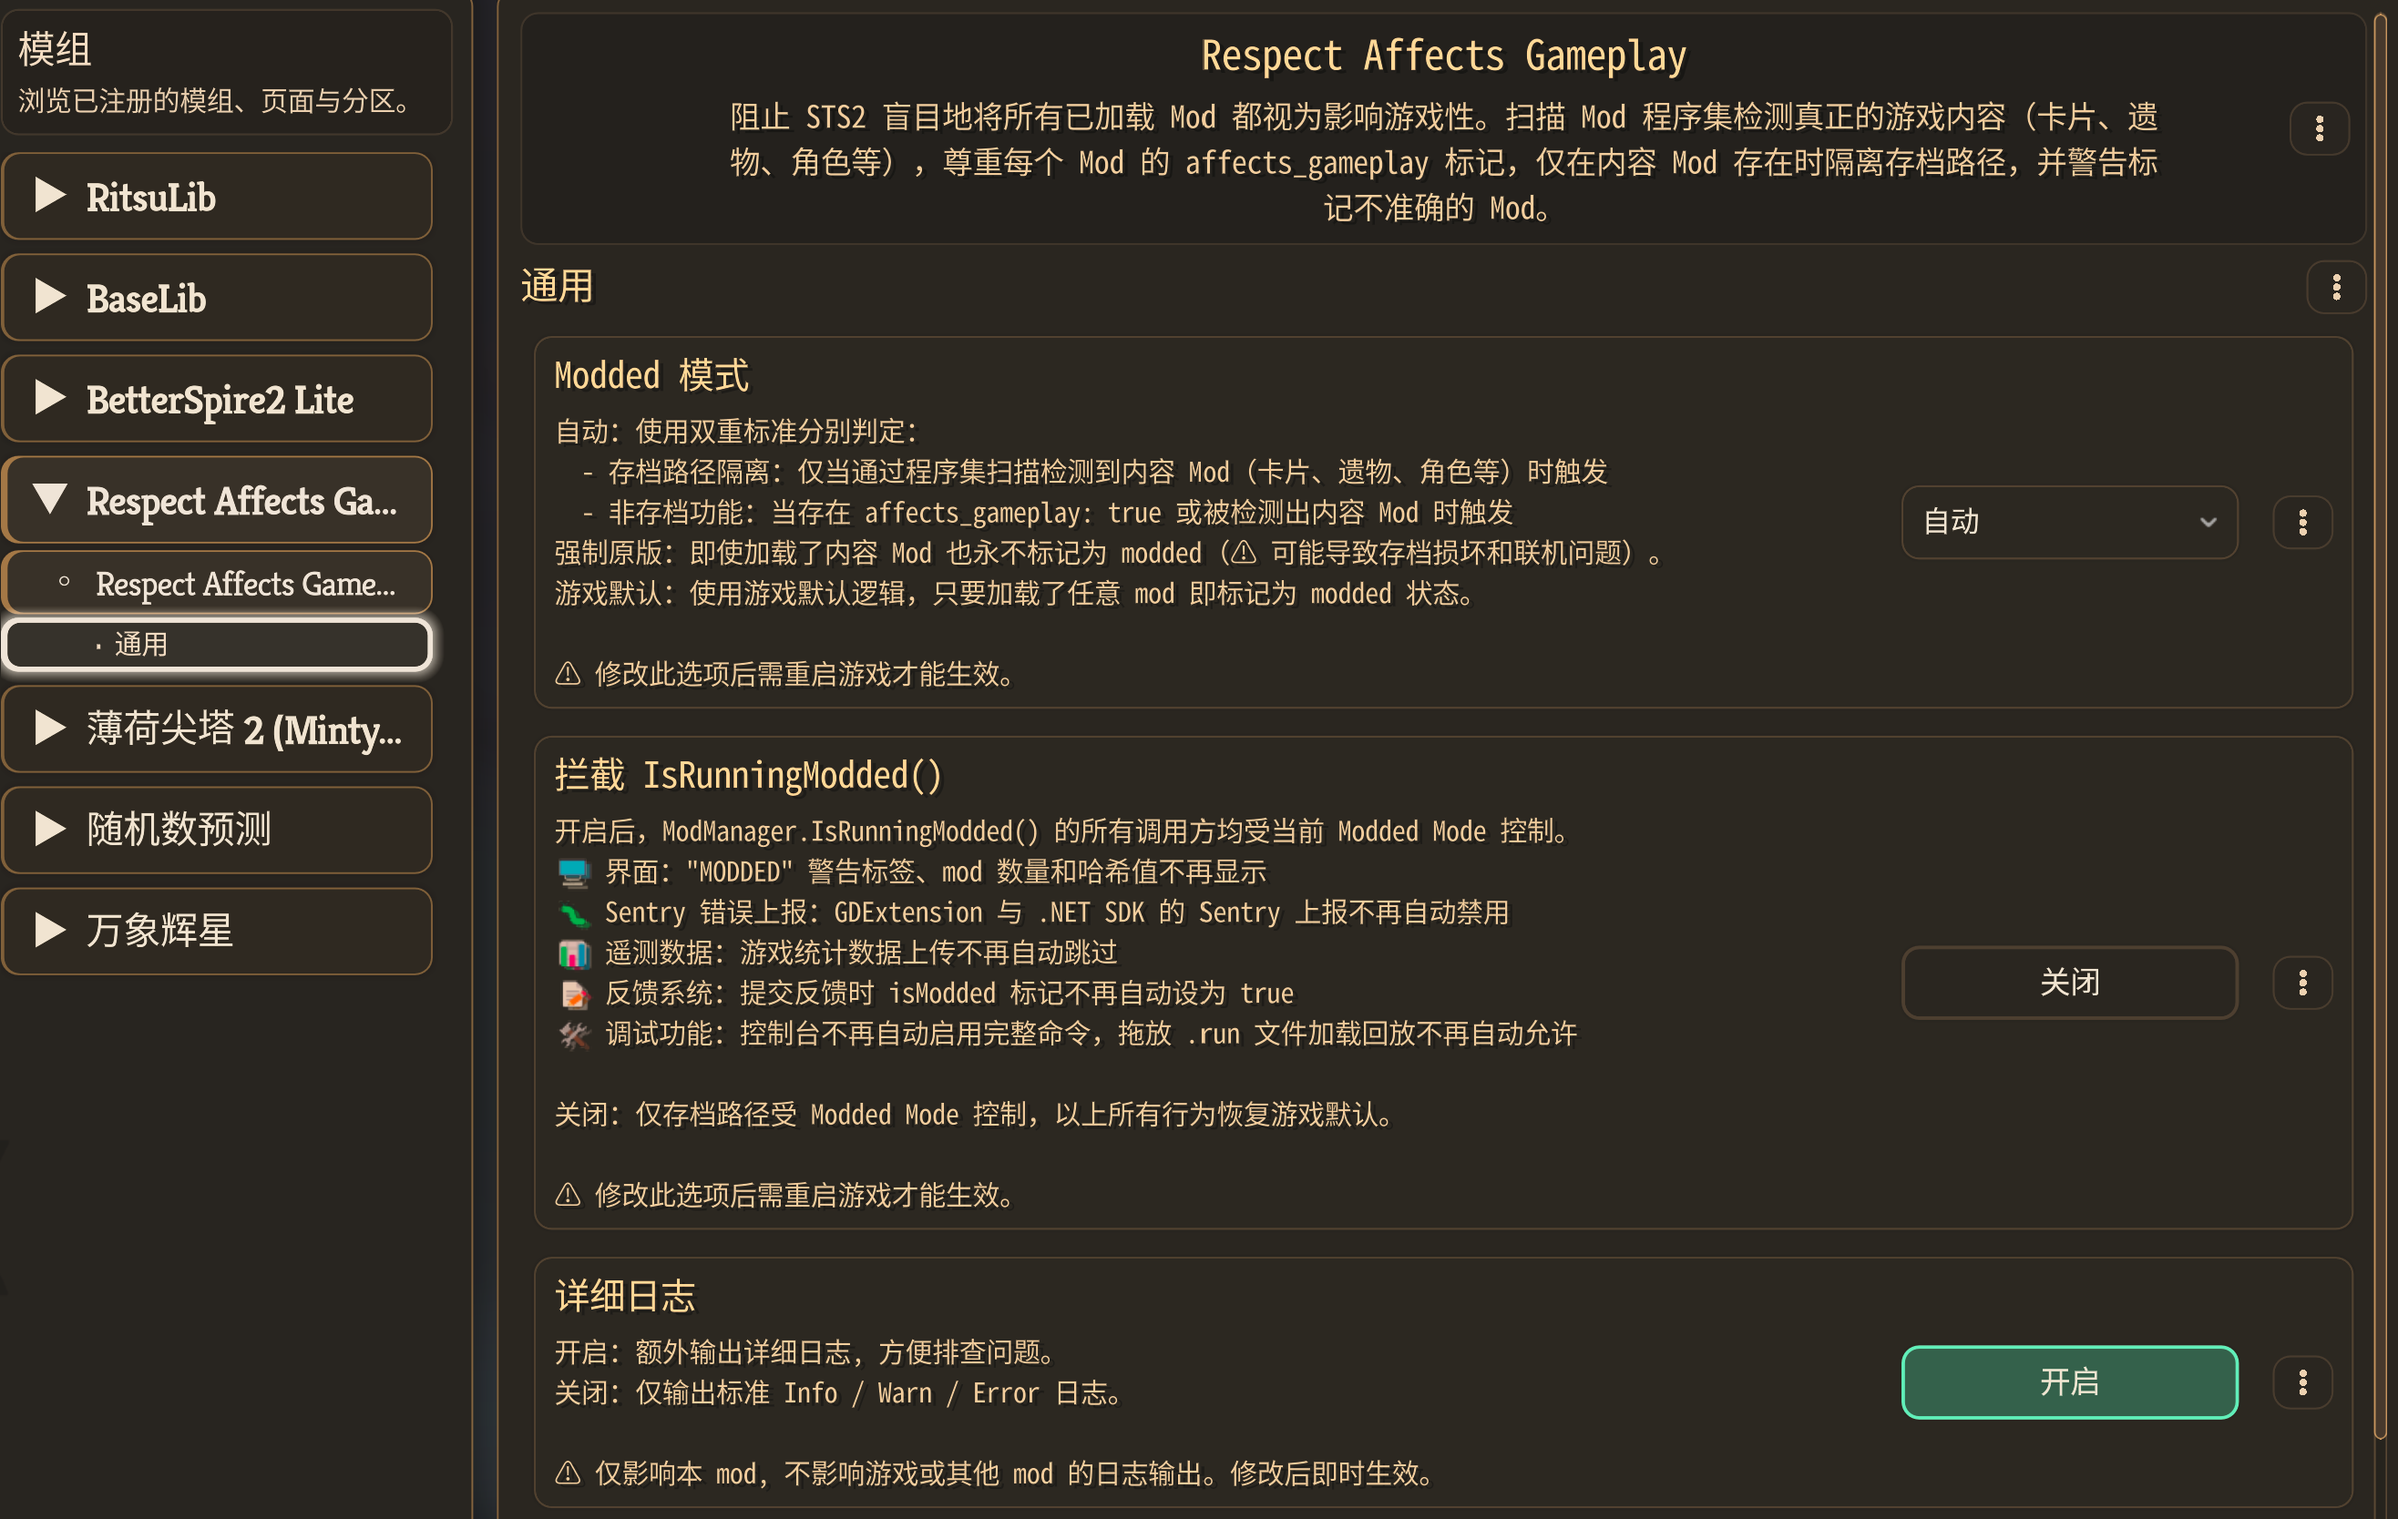
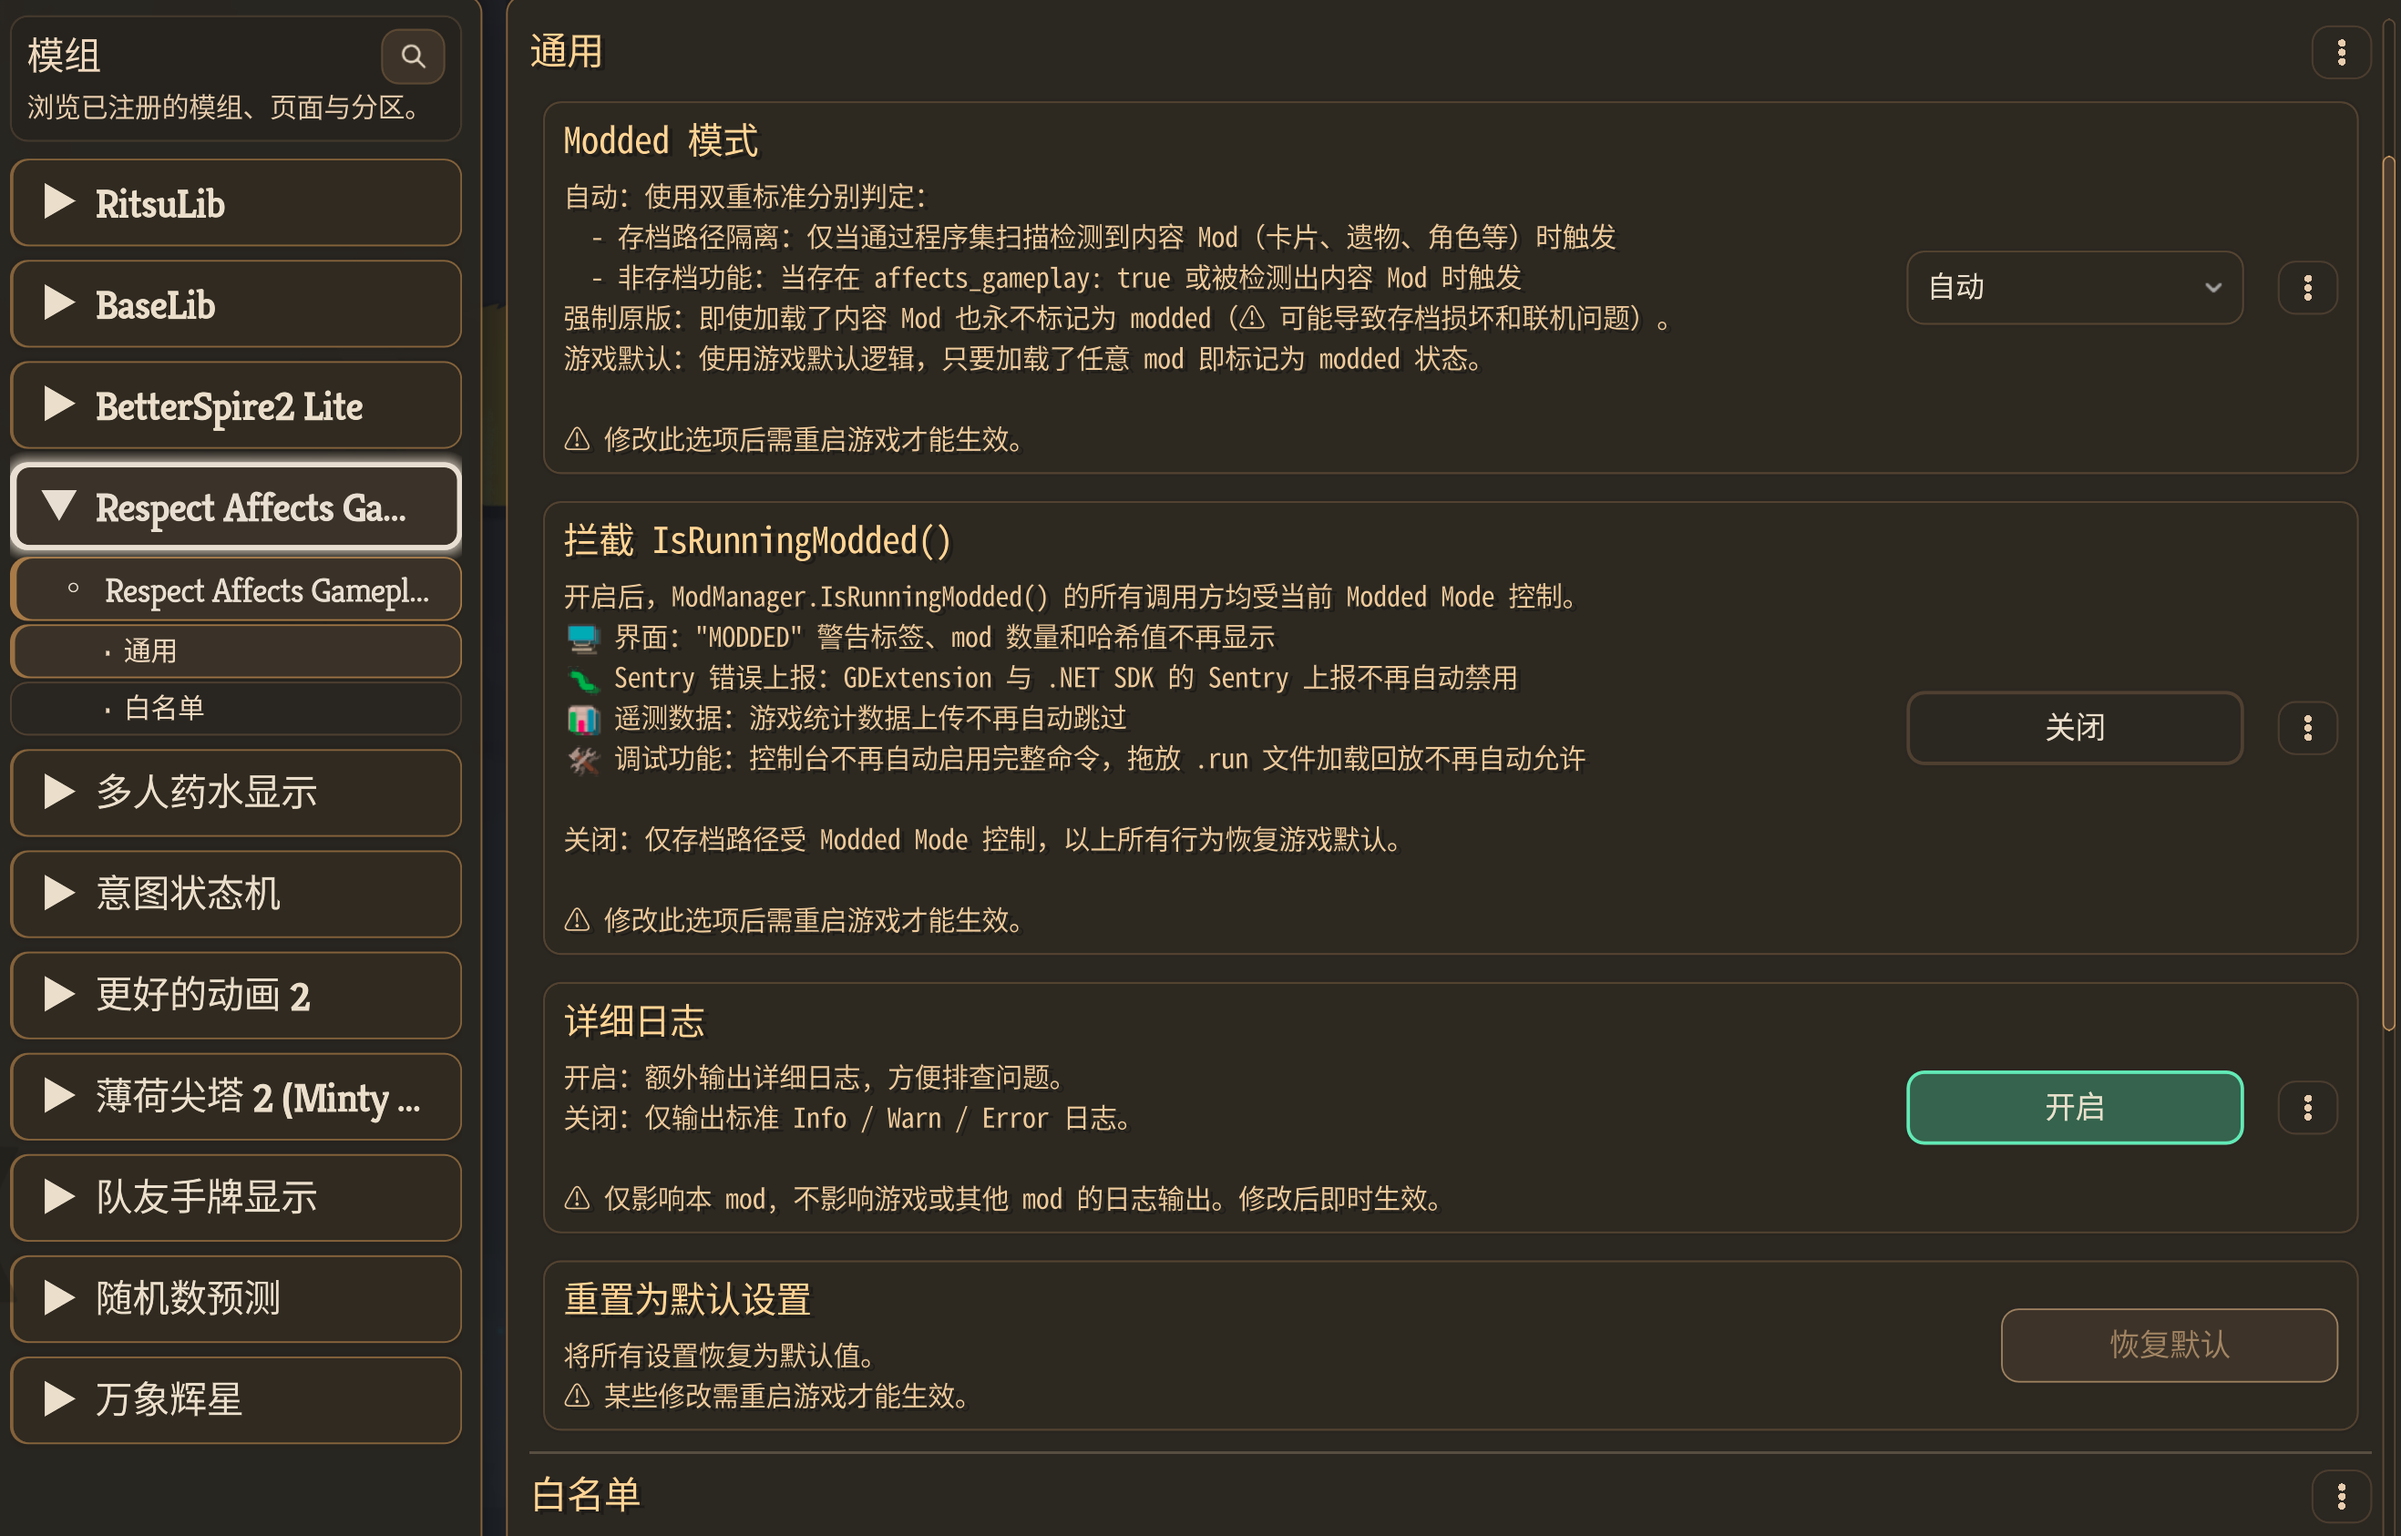
chore(release): v0.3.2
- CHANGELOG: [Unreleased] 归档为 [0.3.2] 并新增 Note 玩家摘要, 更新版本链接
- RespectAffectsGameplay.json: 版本号从 0.3.1 提升至 0.3.2
- workshop/image.png: 更新工坊封面图

diff --git a/CHANGELOG.md b/CHANGELOG.md
@@ -26,6 +26,17 @@
 
 ## [Unreleased]
 
+---
+
+## [0.3.2] - 2026-08-06
+
+### Note
+
+- 新增白名单功能：设置页可管理白名单, 误标 Toast 可一键将误标 Mod 加入白名单, 白名单内 Mod 在自动模式下强制视为不影响游戏性
+- 本地化文件目录迁移至新位置, 旧目录首次运行时自动迁移, 无需手动处理
+- 内容检测容错性提升, 单个程序集类型加载失败不再导致整个 Mod 检测失败; 误标提示措辞调整为中性表述
+- 关键日志节点从 Verbose 提升为 Info 级别, 默认日志即可查看判定结果
+
 ### Added
 
 - **`.gitattributes`**: 新增 Git 属性文件，定义统一的文本/二进制分类和行尾规范化（默认 LF，`.bat` → CRLF），确保跨平台一致性
@@ -61,6 +72,8 @@
 - **README**: 项目结构新增 `.gitattributes` 条目；更新 stubs 目录结构描述和桩代码维护说明，移除 0Harmony 桩相关条目；更新设置说明（白名单项）、Toast 点击加入白名单说明、本地化目录路径与迁移说明
 - **`.github` 模板和工作流**: `bug_report.md` 简化运行环境模板；`dependabot-auto-merge.yml` 重构注释结构和条件语句位置
 - **static lambda**: 所有不捕获外部变量的 lambda 标记为 `static`, 减少闭包对象分配
+- **`RespectAffectsGameplay.json`**: 版本号从 `0.3.1` 提升至 `0.3.2`
+- **`workshop/image.png`**: 更新工坊封面图
 
 ---
 
@@ -594,7 +607,8 @@
 
 ---
 
-[Unreleased]: https://github.com/xiting910/RespectAffectsGameplay/compare/v0.3.1...HEAD
+[Unreleased]: https://github.com/xiting910/RespectAffectsGameplay/compare/v0.3.2...HEAD
+[0.3.2]: https://github.com/xiting910/RespectAffectsGameplay/releases/tag/v0.3.2
 [0.3.1]: https://github.com/xiting910/RespectAffectsGameplay/releases/tag/v0.3.1
 [0.3.0]: https://github.com/xiting910/RespectAffectsGameplay/releases/tag/v0.3.0
 [0.2.9]: https://github.com/xiting910/RespectAffectsGameplay/releases/tag/v0.2.9
